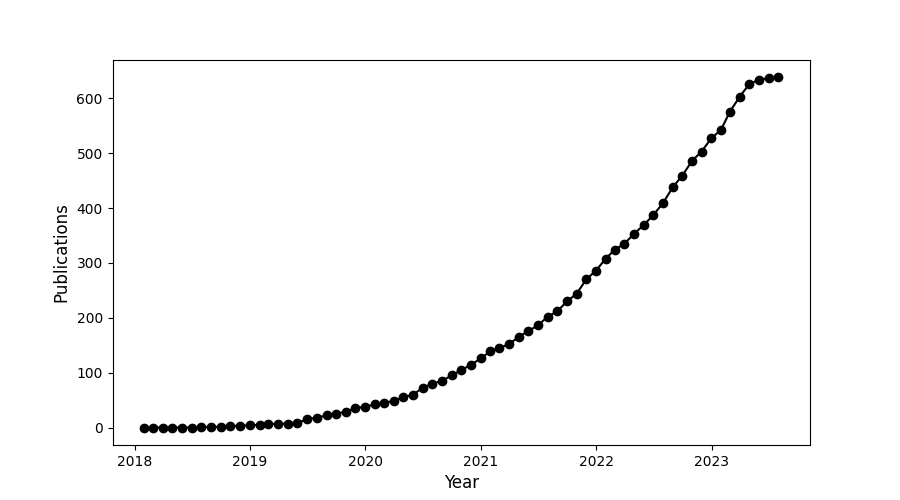
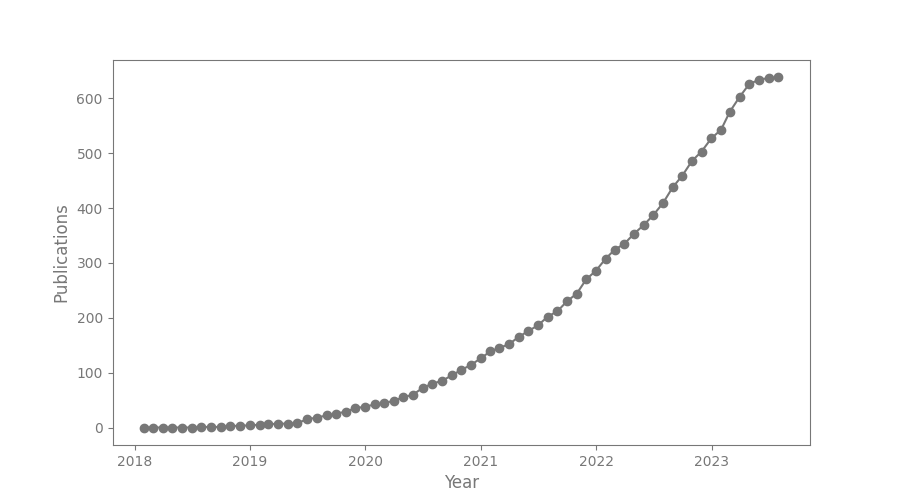
Add citation badge endpoint (#2)
* make plot work in both dark and light mode

* badge

diff --git a/get_citations.py b/get_citations.py
@@ -2,7 +2,10 @@ import ads
 import matplotlib.dates as mdates
 import pandas as pd
 import matplotlib.pyplot as plt
+import json
+
 from ads_fields import FIELDS
+
 
 def query_ads() -> pd.DataFrame:
     """Queries NASA ADS for papers referencing lightkurve
@@ -10,8 +13,10 @@ def query_ads() -> pd.DataFrame:
     Returns:
         pd.DataFrame: Output statistics
     """
-    qry = ads.SearchQuery(q='full:"lightkurve" AND year:2017-2050', rows=999999, fl=FIELDS)
-    papers = [q for q in qry ]
+    qry = ads.SearchQuery(
+        q='full:"lightkurve" AND year:2017-2050', rows=999999, fl=FIELDS
+    )
+    papers = [q for q in qry]
 
     dates = [p.date for p in papers[::-1]]
     titles = [p.title[0] for p in papers[::-1]]
@@ -21,19 +26,24 @@ def query_ads() -> pd.DataFrame:
     pubs = [p.pub for p in papers[::-1]]
     cite_count = [p.citation_count for p in papers[::-1]]
 
-    df = pd.DataFrame({'year': years,
-                    'date': pd.to_datetime(dates),
-                    'title': titles,
-                    'author': authors,
-                    'bibcode': bibcodes,
-                    'pub': pubs,
-                    'cite_count': cite_count})
+    df = pd.DataFrame(
+        {
+            "year": years,
+            "date": pd.to_datetime(dates),
+            "title": titles,
+            "author": authors,
+            "bibcode": bibcodes,
+            "pub": pubs,
+            "cite_count": cite_count,
+        }
+    )
     # Filter out Zenodo entries and AAS Abstracts
     mask = ~df.pub.str.contains("(Zenodo)|(Abstracts)")
     # Sort by date and reset index
-    df = df[mask].sort_values('date', ascending=False).reset_index(drop=True)
+    df = df[mask].sort_values("date", ascending=False).reset_index(drop=True)
 
     return df
+
 
 def make_recent_table(df) -> pd.DataFrame:
     """Formats and makes a nice table of the 5 most recent papers which cite lightkurve
@@ -46,35 +56,41 @@ def make_recent_table(df) -> pd.DataFrame:
     """
 
     ## Make a markdown table
-    most_recent = df.sort_values('date', ascending=False).head(5)
-    most_recent = most_recent.rename(columns={'date': 'Date', 'title': 'Title', 'author': 'Author'})
+    most_recent = df.sort_values("date", ascending=False).head(5)
+    most_recent = most_recent.rename(
+        columns={"date": "Date", "title": "Title", "author": "Author"}
+    )
     link_title = []
     for index, row in most_recent.iterrows():
-        link_title.append(f'[{row.Title}](https://ui.adsabs.harvard.edu/abs/{row.bibcode}/abstract)')
-    most_recent['Title'] = link_title
-    most_recent['Date'] = most_recent['Date'].dt.date
-    recent_table = most_recent[['Date', 'Title', 'Author']]
+        link_title.append(
+            f"[{row.Title}](https://ui.adsabs.harvard.edu/abs/{row.bibcode}/abstract)"
+        )
+    most_recent["Title"] = link_title
+    most_recent["Date"] = most_recent["Date"].dt.date
+    recent_table = most_recent[["Date", "Title", "Author"]]
     return recent_table
 
-def make_readme(md, path='README.md'):
+
+def make_readme(md, path="README.md"):
     """Makes a readme file containing the publications plot and recent papers
 
     Args:
         md (_type_): markdown to include
         path (str, optional): output path. Defaults to 'README.md'.
     """
-    readme_str = f'''
+    readme_str = f"""
 <h1>Lightkurve statistics</h1>
 
 ![publications](out/lightkurve-publications.png)  
 
 {md}
-    '''
+    """
     text_file = open(path, "w")
     n = text_file.write(readme_str)
     text_file.close()
 
-def make_plot(df : pd.DataFrame, path='out/lightkurve-publications.png'):
+
+def make_plot(df: pd.DataFrame, path="out/lightkurve-publications.png"):
     """Generates and saves a lightkurve publications plot
 
     Args:
@@ -82,27 +98,40 @@ def make_plot(df : pd.DataFrame, path='out/lightkurve-publications.png'):
         path (str, optional): output path. Defaults to 'out/lightkurve-publications.png'.
     """
     # Make a plot
-    x = pd.date_range('2018-01-01T00:00:00Z', df.date.max(), freq='1M')
+    x = pd.date_range("2018-01-01T00:00:00Z", df.date.max(), freq="1M")
     y = [len(df[df.date < d]) for d in x]
 
+    plot_color = "#777"
     fig, ax = plt.subplots(figsize=[9, 5])
-    ax.plot(x, y, marker='o', c='k')
-    ax.set_xlabel('Year', fontsize=12)
-    ax.set_ylabel("Publications", fontsize=12)
+    ax.plot(x, y, marker="o", c=plot_color)
+    ax.set_xlabel("Year", fontsize=15, c=plot_color)
+    ax.set_ylabel("Publications", fontsize=15, c=plot_color)
     locator = mdates.AutoDateLocator(minticks=3, maxticks=7)
     formatter = mdates.ConciseDateFormatter(locator)
     ax.xaxis.set_major_locator(locator)
     ax.xaxis.set_major_formatter(formatter)
 
-    plt.savefig(path)
+    ax.tick_params(color=plot_color, labelcolor=plot_color)
+    for spine in ax.spines.values():
+        spine.set_edgecolor(plot_color)
+    plt.savefig(path, transparent=True)
     plt.close()
 
-if __name__ == '__main__':
+
+def make_badge_endpoint(df):
+    badge = {"color": "blue", "status": f"{len(df)}", "subject": "Citations"}
+    json_object = json.dumps(badge, indent=4)
+    # Writing to sample.json
+    with open("out/badge.json", "w") as outfile:
+        outfile.write(json_object)
+
+
+if __name__ == "__main__":
     # Query ADS
     df = query_ads()
 
     # Save entire statistics table
-    df.to_csv('out/statistics.csv')
+    df.to_csv("out/statistics.csv")
 
     # get recent publications
     recent = make_recent_table(df)
@@ -112,3 +141,5 @@ if __name__ == '__main__':
 
     # Now save the readme
     make_readme(recent.to_markdown())
+
+    make_badge_endpoint(df)
